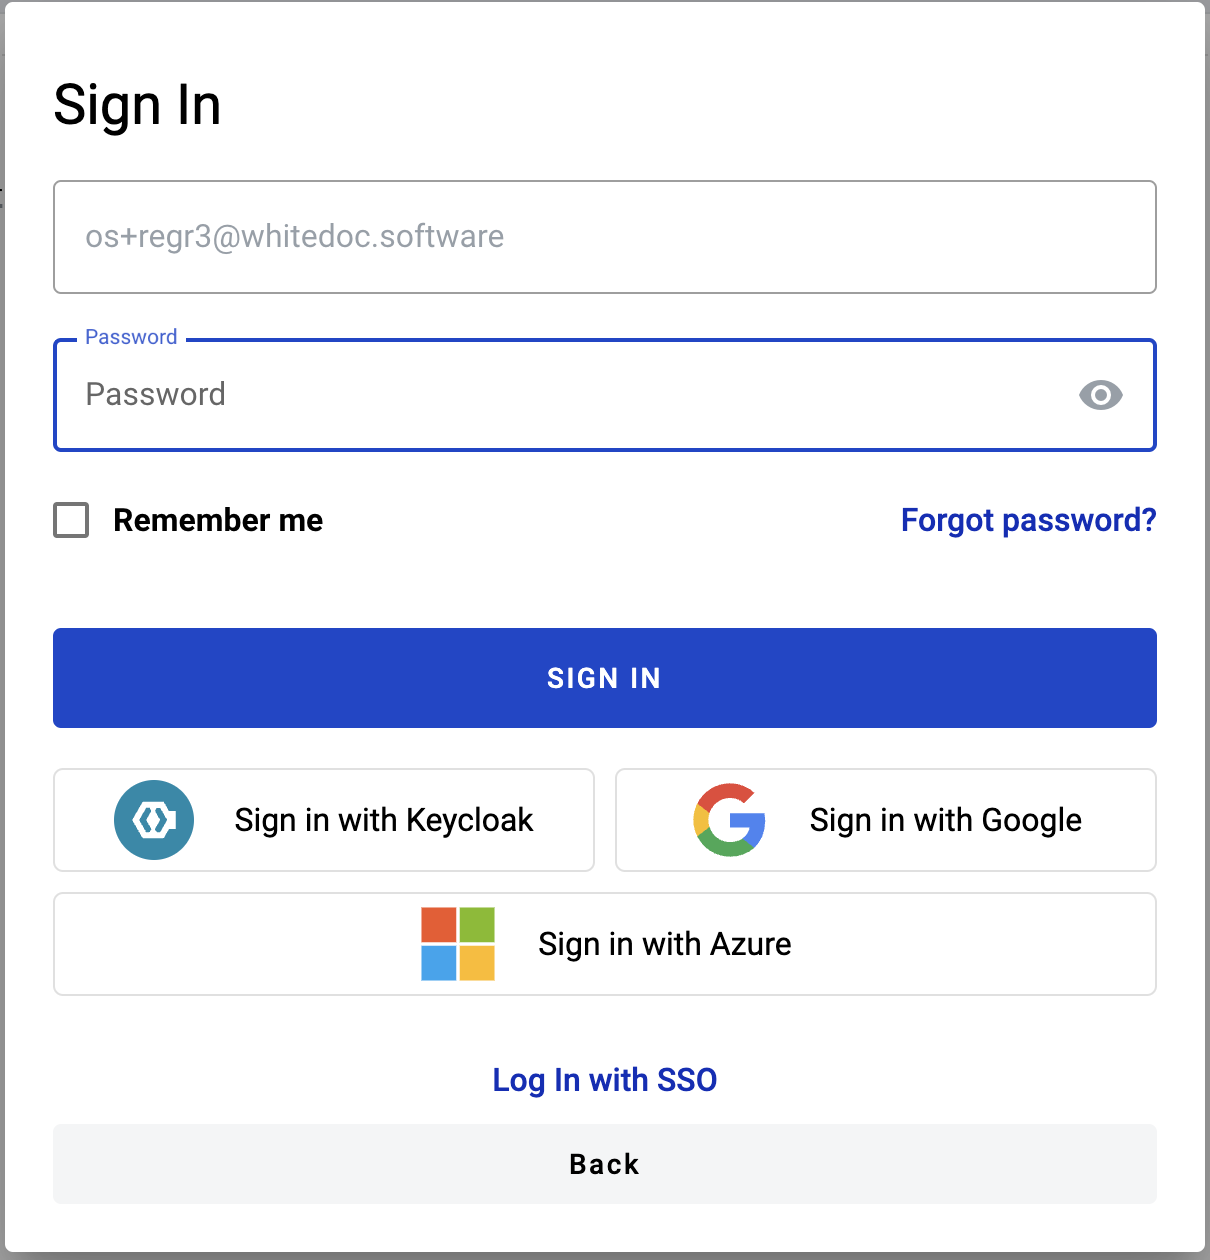
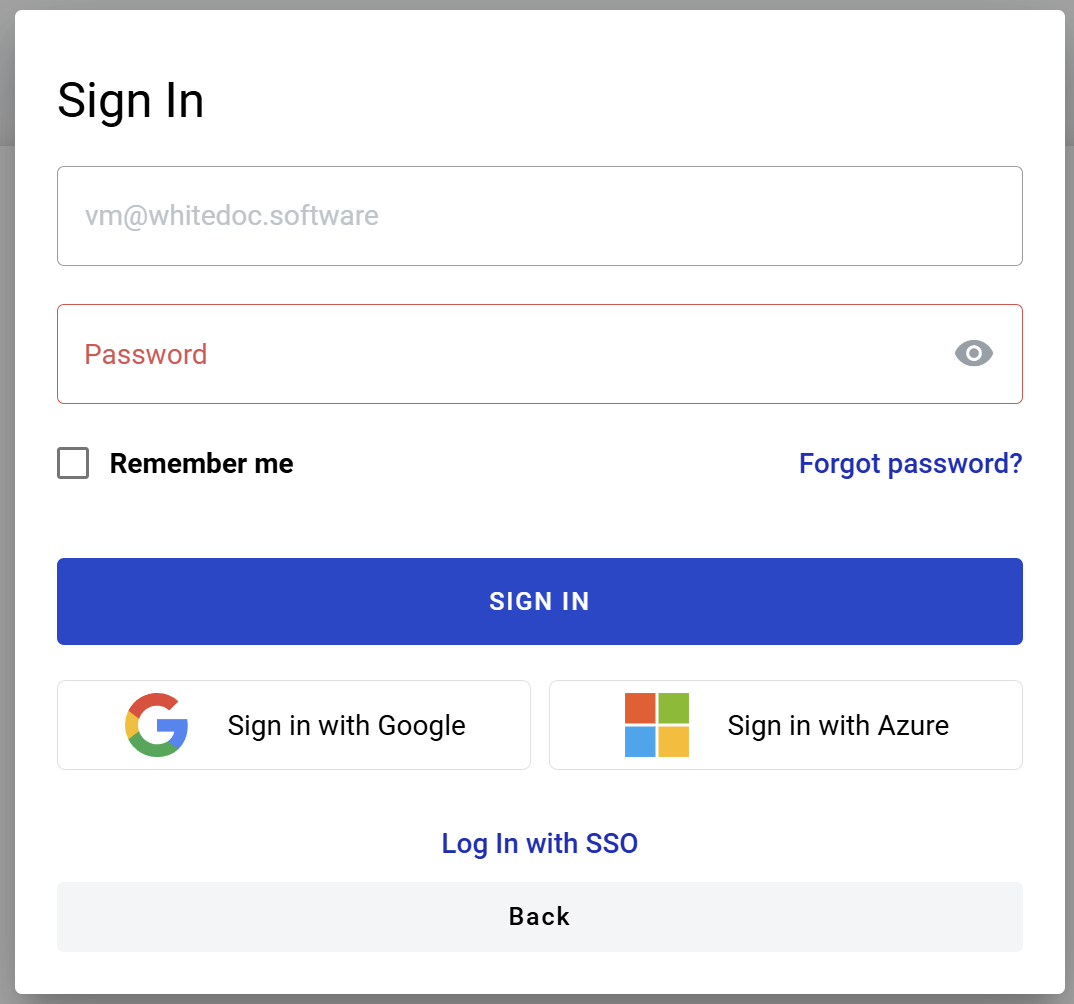
Auzre/keycloak auth during initiation (#298)
* Auzre/keycloak auth during initiation

* removed keycloak mentions

diff --git a/docs/source/pages/howToWorkWithPlatform/mainApplication/envelope/unregisteredUserProcessing/unregisteredUserProcessing.rst b/docs/source/pages/howToWorkWithPlatform/mainApplication/envelope/unregisteredUserProcessing/unregisteredUserProcessing.rst
@@ -122,7 +122,7 @@ How to send an envelope without authorization as a registered user?
    :width: 600
    :align: center
 
-5. Enter valid credentials and sign in. Authorization through third-party services is also available
+5. Enter valid credentials and sign in. Authorization through third-party services is also available. Please note, that if you want to use Azure for the first time during this authorization, you will have to confirm your email. A confirmation code will be sent to your user email, which you will have to enter in a prompted modal window
 
 .. image:: pic_unregisteredUserProcessing/authForm.png
    :width: 600
